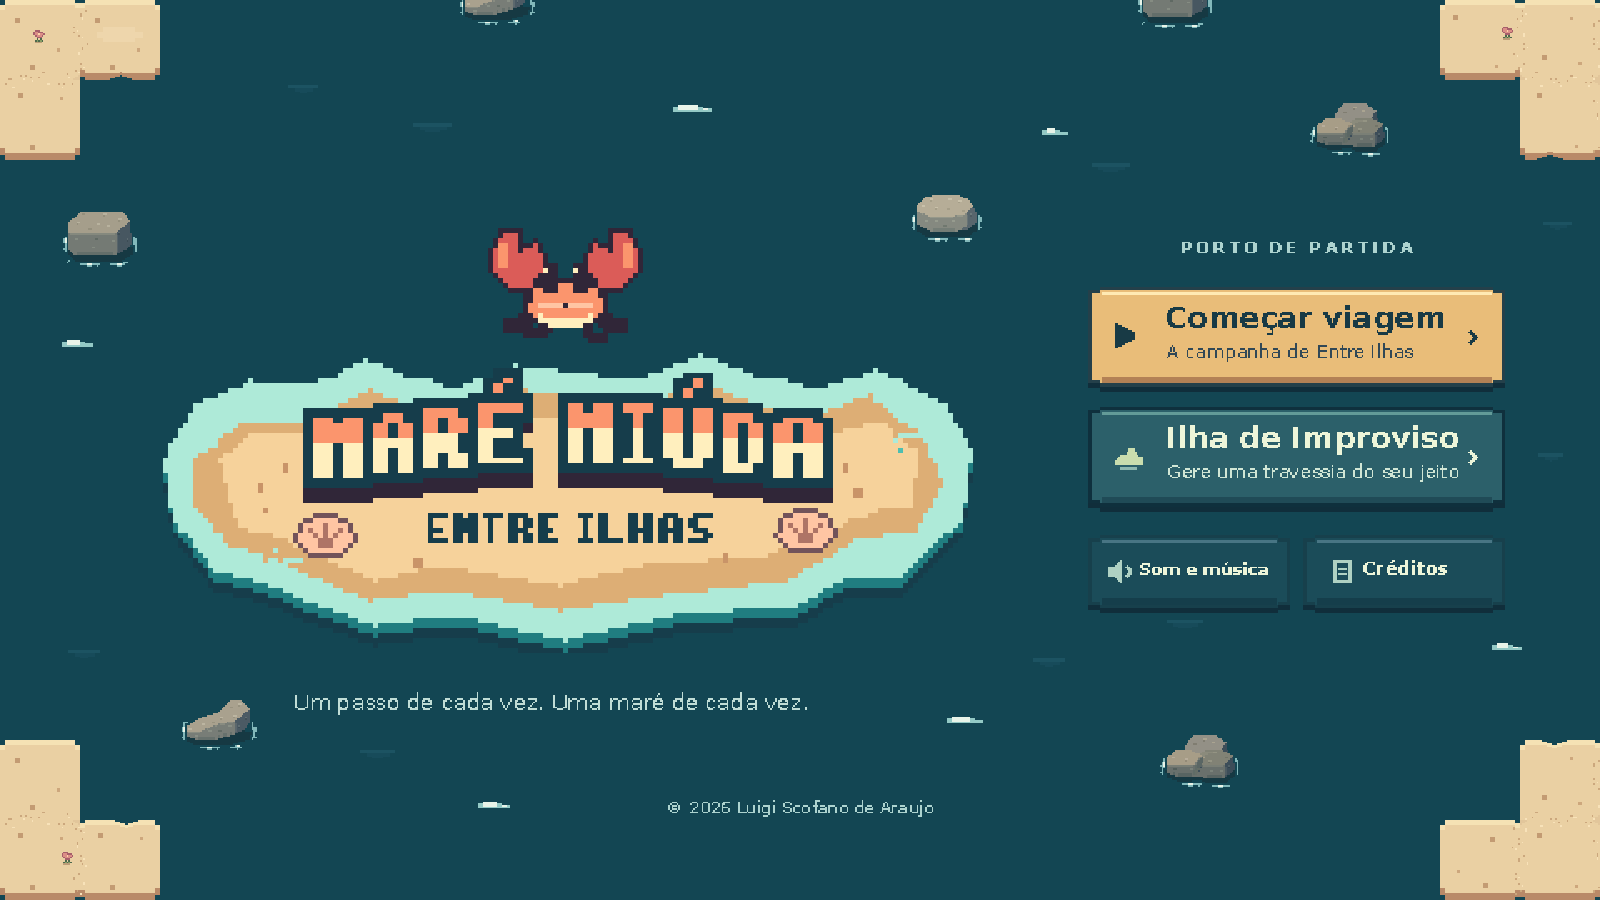
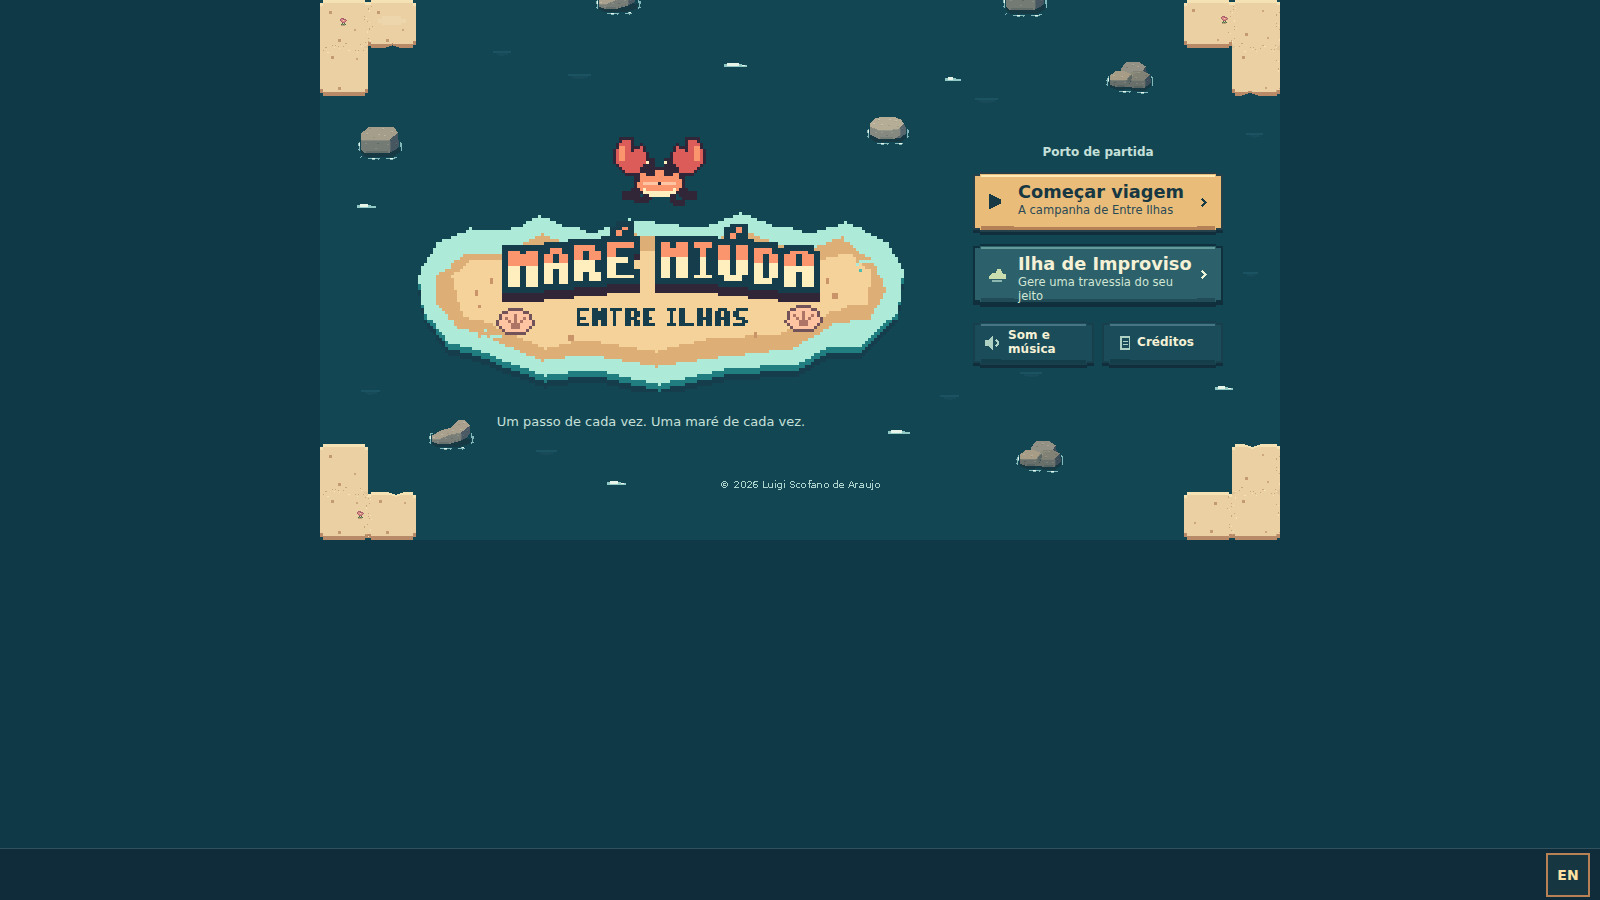
Substitui Porto pela captura da edição Sem Direcional

diff --git a/app/globals.css b/app/globals.css
@@ -1991,18 +1991,23 @@ nav a > .icon {
   image-rendering: pixelated;
 }
 
-/* Enquadra o menu (500 × 440 px do PNG original), sem reamostrar o arquivo. */
+/* Enquadra o menu (265 × 236 px do PNG original), sem reamostrar o arquivo. */
 .project-capture-menu {
   position: relative;
-  aspect-ratio: 500 / 440;
+  aspect-ratio: 265 / 236;
   max-width: 500px;
   overflow: hidden;
 }
 .project-gallery-items .project-capture-menu img {
   position: absolute;
-  width: 320%;
+  width: 603.7736%;
   max-width: none;
-  left: -208%;
-  top: -47.73%;
+  left: -364.5283%;
+  top: -57.6271%;
   border: 0;
+}
+
+/* A captura do Porto usa texto de interface suave; não aplique o filtro dos tabuleiros. */
+#projeto-mare-miuda .project-capture-menu img {
+  image-rendering: auto;
 }

diff --git a/docs/MARE-MIUDA.md b/docs/MARE-MIUDA.md
@@ -6,7 +6,7 @@ Vitrine pública de **Maré Miúda: Entre Ilhas / Tiny Tide: Between Islands**, 
 
 Dados conferidos na documentação do autor em 24/11/2026: 8 mundos, 231 fases (200 regulares, 16 chefes opcionais, 15 bônus), edição offline, teclado/toque e mudança PT/EN local sem reinício da partida. Na abertura/recarga normal o jogo começa em português. A tradução espanhola é do portfólio, não uma edição espanhola do jogo.
 
-Os seis PNGs originais foram preservados byte a byte, sem redesenho. A marca tem 180 × 94 pixels. `porto.png` é um quadro de divulgação recomposto a partir da arte e do estado real da interface, não uma captura de execução. `mundo-01-baixa.png` foi produzido pelo motor e pela câmera oficiais. O cartão aproxima a área de botões do Porto por CSS, sem alterar os pixels do arquivo ou redesenhar as letras. O link Abrir PNG completo preserva a cena inteira. A procedência aparece nas legendas PT/EN/ES. As fontes públicas apontam exclusivamente para os próprios ativos autorizados deste portfólio.
[1 lines of base64/hex data omitted]
 
 Nenhum HTML executável do jogo, código-fonte, trilha sonora, vídeo ou catálogo completo foi copiado para o portfólio. Os quatro quadros de travessia mostram os mundos 1, 4 e 8. A Praia das Conchas aparece nas duas marés para comparar o efeito da água. Não se deve ampliar esse escopo sem nova autorização.
 

diff --git a/README.md b/README.md
@@ -175,7 +175,7 @@ Veja [fontes e manutenção da galeria](docs/MIUDEZAS.md) e o [código do jogo](
 <details>
 <summary>Expandir Maré Miúda</summary>
 
-A [vitrine do projeto](https://luigiscofano.github.io/portfolio/#projeto-mare-miuda) apresenta 8 mundos e 231 fases, com textos PT/EN/ES. O jogo possui alternância local PT/EN. Marca e cinco imagens autorizadas seguem a apresentação compacta dos demais cartões; a galeria explica a origem de cada imagem, aproxima o menu do Porto e oferece o PNG completo. O estudo de caso documenta as regras e a implementação. O botão Repositório abre o [código público do projeto](https://github.com/luigiscofano/mare-miuda-entre-ilhas). O portfólio não hospeda código, edição jogável ou vídeo completo do jogo.
+A [vitrine do projeto](https://luigiscofano.github.io/portfolio/#projeto-mare-miuda) apresenta 8 mundos e 231 fases, com textos PT/EN/ES. O jogo possui alternância local PT/EN. Marca e cinco imagens autorizadas seguem a apresentação compacta dos demais cartões; a galeria explica a origem de cada imagem, aproxima os controles legíveis do Porto da edição Sem Direcional e oferece o PNG completo. O estudo de caso documenta as regras e a implementação. O botão Repositório abre o [código público do projeto](https://github.com/luigiscofano/mare-miuda-entre-ilhas). O portfólio não hospeda código, edição jogável ou vídeo completo do jogo.
 
 Veja [escopo, fontes e manutenção](docs/MARE-MIUDA.md).
 
